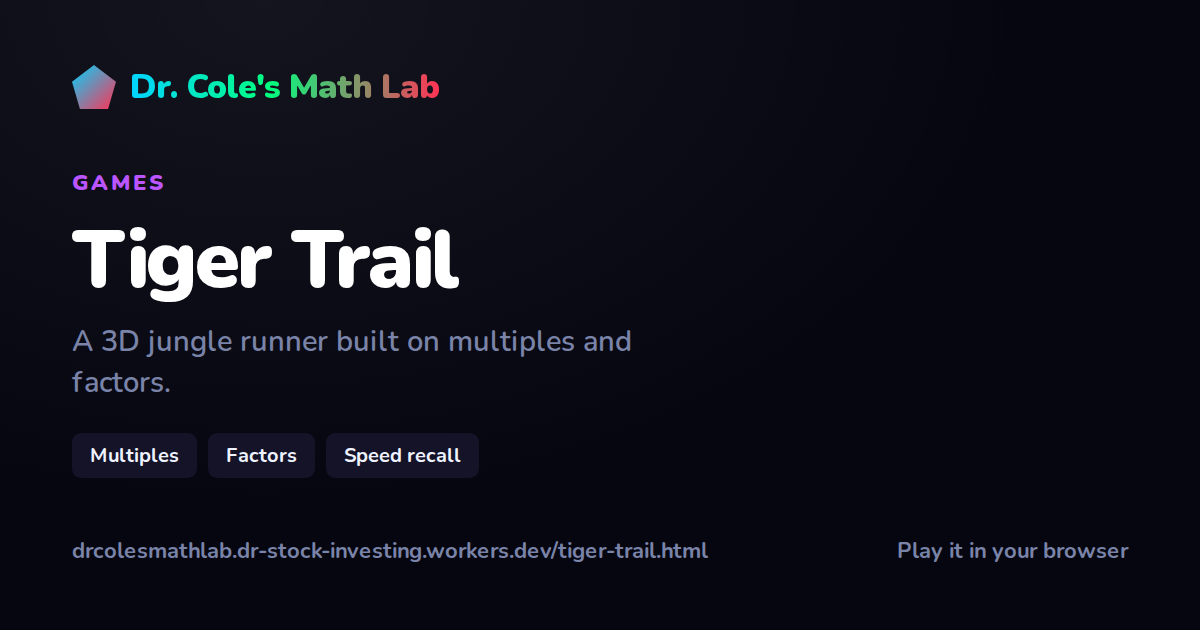
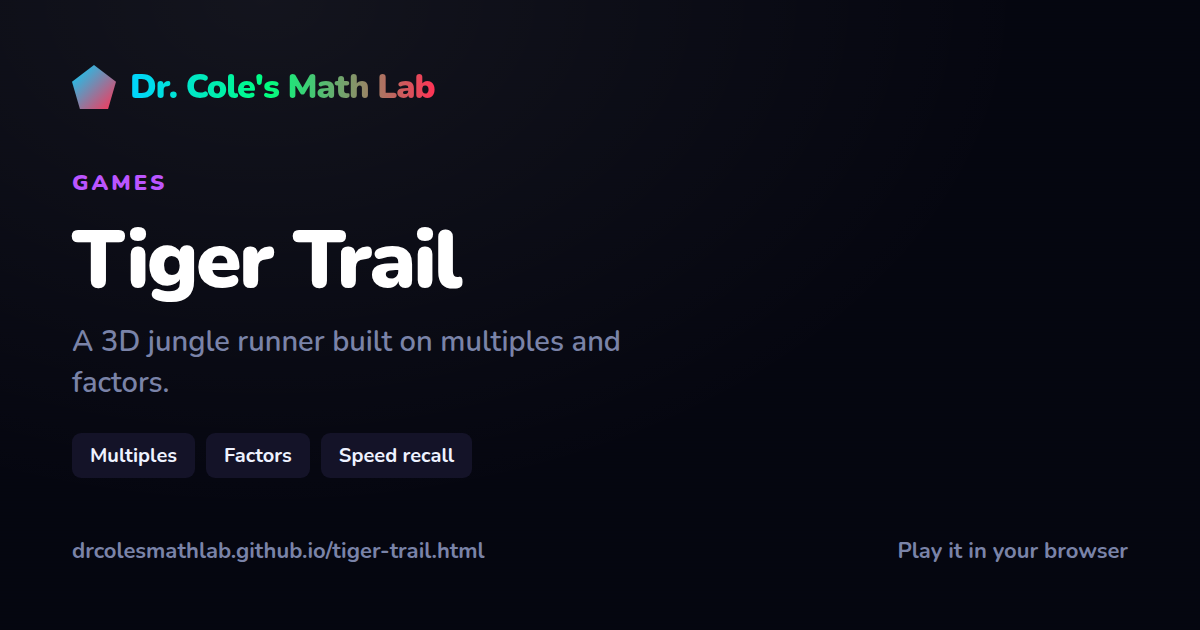
Point canonical and OG tags back at github.io so LinkedIn previews work
LinkedIn's Post Inspector cannot load any page on workers.dev: both the
new squares-cubes.html and the long-standing balancing-act.html return
"We cannot display a preview for this URL", while the same pages on
drcolesmathlab.github.io work. The likely cause is Cloudflare's bot
protection treating LinkedInBot as a bad bot, and workers.dev is
Cloudflare's domain, so there is no zone of ours to add an allow rule to.

- site.origin -> https://drcolesmathlab.github.io; every page's
  canonical, og:url, og:image and twitter:image regenerated from it.
- og-cards.html footers show the github.io address; all six cards
  re-rendered (Nunito from assets/fonts, same 1200x630 spec). Only the
  address text differs from the previous cards.
- README: github.io is canonical again and says why; records that
  preview branch builds are switched off in the Cloudflare dashboard;
  the custom-domain steps now start with a Post Inspector check.

The Worker keeps serving the site unchanged.

Verified: apply-site-chrome.js is idempotent, check-external.js reports
no external origins, check-contrast.js passes all 66 pairs, and no page
or tool still references workers.dev outside the config comment.

Claude-Session: https://claude.ai/code/session_01F2yThtmyDHjTp4sxzs9zBR

diff --git a/real-number-monsters.html b/real-number-monsters.html
@@ -6,20 +6,20 @@
 <title>Real Number Monsters — Dr. Cole's Math Lab</title>
 
 <!-- META:START -->
-<link rel="canonical" href="https://drcolesmathlab.dr-stock-investing.workers.dev/real-number-monsters.html">
+<link rel="canonical" href="https://drcolesmathlab.github.io/real-number-monsters.html">
 <meta name="description" content="Feed every falling number to the monster of its most specific set: Natural, Whole, Integer, Rational or Irrational. Playable in the browser, no sign-up.">
 <meta property="og:type" content="website">
 <meta property="og:site_name" content="Dr. Cole's Math Lab">
-<meta property="og:url" content="https://drcolesmathlab.dr-stock-investing.workers.dev/real-number-monsters.html">
+<meta property="og:url" content="https://drcolesmathlab.github.io/real-number-monsters.html">
 <meta property="og:title" content="Real Number Monsters — Dr. Cole's Math Lab">
 <meta property="og:description" content="Feed every falling number to the monster of its most specific set: Natural, Whole, Integer, Rational or Irrational. Playable in the browser, no sign-up.">
-<meta property="og:image" content="https://drcolesmathlab.dr-stock-investing.workers.dev/assets/og-real-number-monsters.png">
+<meta property="og:image" content="https://drcolesmathlab.github.io/assets/og-real-number-monsters.png">
 <meta property="og:image:width" content="1200">
 <meta property="og:image:height" content="630">
 <meta name="twitter:card" content="summary_large_image">
 <meta name="twitter:title" content="Real Number Monsters — Dr. Cole's Math Lab">
 <meta name="twitter:description" content="Feed every falling number to the monster of its most specific set: Natural, Whole, Integer, Rational or Irrational. Playable in the browser, no sign-up.">
-<meta name="twitter:image" content="https://drcolesmathlab.dr-stock-investing.workers.dev/assets/og-real-number-monsters.png">
+<meta name="twitter:image" content="https://drcolesmathlab.github.io/assets/og-real-number-monsters.png">
 <meta name="theme-color" content="#050610">
 <!-- META:END -->
 

diff --git a/tools/og-cards.html b/tools/og-cards.html
@@ -79,7 +79,7 @@
     <p class="sub">Playable in the browser. No download, no sign-up, no tracking.</p>
   </div>
   <div class="layer foot">
-    <span class="note">drcolesmathlab.dr-stock-investing.workers.dev</span>
+    <span class="note">drcolesmathlab.github.io</span>
     <span class="note">Geometry · Algebra · Number sense</span>
   </div>
 </article>
@@ -97,7 +97,7 @@
     </div>
   </div>
   <div class="layer foot">
-    <span class="note">drcolesmathlab.dr-stock-investing.workers.dev/transform-lab.html</span>
+    <span class="note">drcolesmathlab.github.io/transform-lab.html</span>
     <span class="note">Play it in your browser</span>
   </div>
 </article>
@@ -115,7 +115,7 @@
     </div>
   </div>
   <div class="layer foot">
-    <span class="note">drcolesmathlab.dr-stock-investing.workers.dev/tiger-trail.html</span>
+    <span class="note">drcolesmathlab.github.io/tiger-trail.html</span>
     <span class="note">Play it in your browser</span>
   </div>
 </article>
@@ -133,7 +133,7 @@
     </div>
   </div>
   <div class="layer foot">
-    <span class="note">drcolesmathlab.dr-stock-investing.workers.dev/balancing-act.html</span>
+    <span class="note">drcolesmathlab.github.io/balancing-act.html</span>
     <span class="note">Play it in your browser</span>
   </div>
 </article>
@@ -151,7 +151,7 @@
     </div>
   </div>
   <div class="layer foot">
-    <span class="note">drcolesmathlab.dr-stock-investing.workers.dev/real-number-monsters.html</span>
+    <span class="note">drcolesmathlab.github.io/real-number-monsters.html</span>
     <span class="note">Play it in your browser</span>
   </div>
 </article>
@@ -169,7 +169,7 @@
     </div>
   </div>
   <div class="layer foot">
-    <span class="note">drcolesmathlab.dr-stock-investing.workers.dev/squares-cubes.html</span>
+    <span class="note">drcolesmathlab.github.io/squares-cubes.html</span>
     <span class="note">Explore it in your browser</span>
   </div>
 </article>

diff --git a/index.html b/index.html
@@ -6,20 +6,20 @@
 <title>Dr. Cole's Math Lab — interactive math you can actually use</title>
 
 <!-- META:START -->
-<link rel="canonical" href="https://drcolesmathlab.dr-stock-investing.workers.dev/">
+<link rel="canonical" href="https://drcolesmathlab.github.io/">
 <meta name="description" content="5 interactive math apps you can use right in the browser — no download, no sign-up, no tracking. Built by Dr. Cole.">
 <meta property="og:type" content="website">
 <meta property="og:site_name" content="Dr. Cole's Math Lab">
-<meta property="og:url" content="https://drcolesmathlab.dr-stock-investing.workers.dev/">
+<meta property="og:url" content="https://drcolesmathlab.github.io/">
 <meta property="og:title" content="Dr. Cole's Math Lab — interactive math you can actually use">
 <meta property="og:description" content="5 interactive math apps you can use right in the browser — no download, no sign-up, no tracking. Built by Dr. Cole.">
-<meta property="og:image" content="https://drcolesmathlab.dr-stock-investing.workers.dev/assets/og-home.png">
+<meta property="og:image" content="https://drcolesmathlab.github.io/assets/og-home.png">
 <meta property="og:image:width" content="1200">
 <meta property="og:image:height" content="630">
 <meta name="twitter:card" content="summary_large_image">
 <meta name="twitter:title" content="Dr. Cole's Math Lab — interactive math you can actually use">
 <meta name="twitter:description" content="5 interactive math apps you can use right in the browser — no download, no sign-up, no tracking. Built by Dr. Cole.">
-<meta name="twitter:image" content="https://drcolesmathlab.dr-stock-investing.workers.dev/assets/og-home.png">
+<meta name="twitter:image" content="https://drcolesmathlab.github.io/assets/og-home.png">
 <meta name="theme-color" media="(prefers-color-scheme: light)" content="#F7F8FA">
 <meta name="theme-color" media="(prefers-color-scheme: dark)" content="#060810">
 <!-- META:END -->

diff --git a/squares-cubes.html b/squares-cubes.html
@@ -6,20 +6,20 @@
 <title>Squares &amp; Cubes Explorer — Dr. Cole's Math Lab</title>
 
 <!-- META:START -->
-<link rel="canonical" href="https://drcolesmathlab.dr-stock-investing.workers.dev/squares-cubes.html">
+<link rel="canonical" href="https://drcolesmathlab.github.io/squares-cubes.html">
 <meta name="description" content="Grow a square or a cube one unit at a time and watch the notation and the count follow. Runs in the browser, no sign-up.">
 <meta property="og:type" content="website">
 <meta property="og:site_name" content="Dr. Cole's Math Lab">
-<meta property="og:url" content="https://drcolesmathlab.dr-stock-investing.workers.dev/squares-cubes.html">
+<meta property="og:url" content="https://drcolesmathlab.github.io/squares-cubes.html">
 <meta property="og:title" content="Squares &amp; Cubes Explorer — Dr. Cole's Math Lab">
 <meta property="og:description" content="Grow a square or a cube one unit at a time and watch the notation and the count follow. Runs in the browser, no sign-up.">
-<meta property="og:image" content="https://drcolesmathlab.dr-stock-investing.workers.dev/assets/og-squares-cubes.png">
+<meta property="og:image" content="https://drcolesmathlab.github.io/assets/og-squares-cubes.png">
 <meta property="og:image:width" content="1200">
 <meta property="og:image:height" content="630">
 <meta name="twitter:card" content="summary_large_image">
 <meta name="twitter:title" content="Squares &amp; Cubes Explorer — Dr. Cole's Math Lab">
 <meta name="twitter:description" content="Grow a square or a cube one unit at a time and watch the notation and the count follow. Runs in the browser, no sign-up.">
-<meta name="twitter:image" content="https://drcolesmathlab.dr-stock-investing.workers.dev/assets/og-squares-cubes.png">
+<meta name="twitter:image" content="https://drcolesmathlab.github.io/assets/og-squares-cubes.png">
 <meta name="theme-color" content="#050610">
 <!-- META:END -->
 

diff --git a/balancing-act.html b/balancing-act.html
@@ -6,20 +6,20 @@
 <title>Balancing Act — Dr. Cole's Math Lab</title>
 
 <!-- META:START -->
-<link rel="canonical" href="https://drcolesmathlab.dr-stock-investing.workers.dev/balancing-act.html">
+<link rel="canonical" href="https://drcolesmathlab.github.io/balancing-act.html">
 <meta name="description" content="Solve linear equations with a balance beam that reacts when you break the property of equality. Playable in the browser, no sign-up.">
 <meta property="og:type" content="website">
 <meta property="og:site_name" content="Dr. Cole's Math Lab">
-<meta property="og:url" content="https://drcolesmathlab.dr-stock-investing.workers.dev/balancing-act.html">
+<meta property="og:url" content="https://drcolesmathlab.github.io/balancing-act.html">
 <meta property="og:title" content="Balancing Act — Dr. Cole's Math Lab">
 <meta property="og:description" content="Solve linear equations with a balance beam that reacts when you break the property of equality. Playable in the browser, no sign-up.">
-<meta property="og:image" content="https://drcolesmathlab.dr-stock-investing.workers.dev/assets/og-balancing-act.png">
+<meta property="og:image" content="https://drcolesmathlab.github.io/assets/og-balancing-act.png">
 <meta property="og:image:width" content="1200">
 <meta property="og:image:height" content="630">
 <meta name="twitter:card" content="summary_large_image">
 <meta name="twitter:title" content="Balancing Act — Dr. Cole's Math Lab">
 <meta name="twitter:description" content="Solve linear equations with a balance beam that reacts when you break the property of equality. Playable in the browser, no sign-up.">
-<meta name="twitter:image" content="https://drcolesmathlab.dr-stock-investing.workers.dev/assets/og-balancing-act.png">
+<meta name="twitter:image" content="https://drcolesmathlab.github.io/assets/og-balancing-act.png">
 <meta name="theme-color" content="#050610">
 <!-- META:END -->
 

diff --git a/transform-lab.html b/transform-lab.html
@@ -6,20 +6,20 @@
 <title>Transform Lab — Dr. Cole's Math Lab</title>
 
 <!-- META:START -->
-<link rel="canonical" href="https://drcolesmathlab.dr-stock-investing.workers.dev/transform-lab.html">
+<link rel="canonical" href="https://drcolesmathlab.github.io/transform-lab.html">
 <meta name="description" content="Drag shapes across a coordinate grid to explore translation, reflection, rotation and dilation. Playable in the browser, no sign-up.">
 <meta property="og:type" content="website">
 <meta property="og:site_name" content="Dr. Cole's Math Lab">
-<meta property="og:url" content="https://drcolesmathlab.dr-stock-investing.workers.dev/transform-lab.html">
+<meta property="og:url" content="https://drcolesmathlab.github.io/transform-lab.html">
 <meta property="og:title" content="Transform Lab — Dr. Cole's Math Lab">
 <meta property="og:description" content="Drag shapes across a coordinate grid to explore translation, reflection, rotation and dilation. Playable in the browser, no sign-up.">
-<meta property="og:image" content="https://drcolesmathlab.dr-stock-investing.workers.dev/assets/og-transform-lab.png">
+<meta property="og:image" content="https://drcolesmathlab.github.io/assets/og-transform-lab.png">
 <meta property="og:image:width" content="1200">
 <meta property="og:image:height" content="630">
 <meta name="twitter:card" content="summary_large_image">
 <meta name="twitter:title" content="Transform Lab — Dr. Cole's Math Lab">
 <meta name="twitter:description" content="Drag shapes across a coordinate grid to explore translation, reflection, rotation and dilation. Playable in the browser, no sign-up.">
-<meta name="twitter:image" content="https://drcolesmathlab.dr-stock-investing.workers.dev/assets/og-transform-lab.png">
+<meta name="twitter:image" content="https://drcolesmathlab.github.io/assets/og-transform-lab.png">
 <meta name="theme-color" content="#050610">
 <!-- META:END -->
 

diff --git a/tiger-trail.html b/tiger-trail.html
@@ -6,20 +6,20 @@
 <title>Tiger Trail: Jungle Math Runner — Dr. Cole's Math Lab</title>
 
 <!-- META:START -->
-<link rel="canonical" href="https://drcolesmathlab.dr-stock-investing.workers.dev/tiger-trail.html">
+<link rel="canonical" href="https://drcolesmathlab.github.io/tiger-trail.html">
 <meta name="description" content="A 3D endless runner that drills multiples and factors. Playable in the browser, no sign-up.">
 <meta property="og:type" content="website">
 <meta property="og:site_name" content="Dr. Cole's Math Lab">
-<meta property="og:url" content="https://drcolesmathlab.dr-stock-investing.workers.dev/tiger-trail.html">
+<meta property="og:url" content="https://drcolesmathlab.github.io/tiger-trail.html">
 <meta property="og:title" content="Tiger Trail: Jungle Math Runner — Dr. Cole's Math Lab">
 <meta property="og:description" content="A 3D endless runner that drills multiples and factors. Playable in the browser, no sign-up.">
-<meta property="og:image" content="https://drcolesmathlab.dr-stock-investing.workers.dev/assets/og-tiger-trail.png">
+<meta property="og:image" content="https://drcolesmathlab.github.io/assets/og-tiger-trail.png">
 <meta property="og:image:width" content="1200">
 <meta property="og:image:height" content="630">
 <meta name="twitter:card" content="summary_large_image">
 <meta name="twitter:title" content="Tiger Trail: Jungle Math Runner — Dr. Cole's Math Lab">
 <meta name="twitter:description" content="A 3D endless runner that drills multiples and factors. Playable in the browser, no sign-up.">
-<meta name="twitter:image" content="https://drcolesmathlab.dr-stock-investing.workers.dev/assets/og-tiger-trail.png">
+<meta name="twitter:image" content="https://drcolesmathlab.github.io/assets/og-tiger-trail.png">
 <meta name="theme-color" content="#050610">
 <!-- META:END -->
 

diff --git a/tools/site.config.js b/tools/site.config.js
@@ -18,11 +18,14 @@
 
 module.exports = {
   site: {
-    // Served by a Cloudflare Worker (the canonical host; see wrangler.jsonc) and also by
-    // GitHub Pages at drcolesmathlab.github.io, so links shared before the move keep
-    // working. Canonical, og:url and og:image all point here. If a custom domain is
-    // attached to the Worker later, change this and re-run the generator.
-    origin: 'https://drcolesmathlab.dr-stock-investing.workers.dev',
+    // Served by GitHub Pages here and by a Cloudflare Worker at
+    // drcolesmathlab.dr-stock-investing.workers.dev (see wrangler.jsonc). Canonical,
+    // og:url and og:image all point here, not at the Worker: LinkedIn's Post Inspector
+    // cannot load any page on workers.dev ("We cannot display a preview for this URL"),
+    // and workers.dev is Cloudflare's domain, so there is no zone of ours in which to
+    // let LinkedInBot through. If a custom domain is attached to the Worker later,
+    // check it in Post Inspector first, then change this and re-run the generator.
+    origin: 'https://drcolesmathlab.github.io',
     name: "Dr. Cole's Math Lab",
     wordmarkPre: "Dr. Cole's",
     wordmark: 'Math Lab',

diff --git a/README.md b/README.md
@@ -3,9 +3,9 @@
 A portfolio site for a set of interactive math apps. The point is that every app is
 **actually usable in the page** — not a screenshot, not a video, not an app-store link.
 
-Live at `https://drcolesmathlab.dr-stock-investing.workers.dev` (Cloudflare Worker, canonical) and
-`https://drcolesmathlab.github.io` (GitHub Pages, kept so older links still work). See
-*Deploying* below.
+Live at `https://drcolesmathlab.github.io` (GitHub Pages, canonical) and
+`https://drcolesmathlab.dr-stock-investing.workers.dev` (Cloudflare Worker). See
+*Deploying* below for why the canonical host is GitHub Pages.
 
 ---
 
@@ -233,11 +233,15 @@ mode (white on `#60A5FA` was 2.54:1, now `#060810`). The mockup's decorative gre
 
 The same `main` branch is served two ways, with no build step:
 
-- **Cloudflare Worker: `https://drcolesmathlab.dr-stock-investing.workers.dev`
-  (canonical).** `site.origin` in `tools/site.config.js` points here, so canonical,
-  `og:url` and `og:image` all do too. The Worker is static assets only — no script.
-- **GitHub Pages: `https://drcolesmathlab.github.io`.** Kept live so links shared before
-  the move keep working.
+- **GitHub Pages: `https://drcolesmathlab.github.io` (canonical).** `site.origin` in
+  `tools/site.config.js` points here, so canonical, `og:url` and `og:image` all do too.
+- **Cloudflare Worker: `https://drcolesmathlab.dr-stock-investing.workers.dev`.** Static
+  assets only — no script. Every page works here, but **share the github.io links**:
+  LinkedIn's Post Inspector cannot load any page on `workers.dev` ("We cannot display a
+  preview for this URL"), so a shared workers.dev link gets no card. The likely cause is
+  Cloudflare's bot protection treating LinkedInBot as a bad bot; `workers.dev` is
+  Cloudflare's domain, not ours, so there is nowhere to add a rule letting it through.
+  A custom domain on the Worker would give us that zone (see below).
 
 ### How the Cloudflare Worker is set up
 
@@ -271,7 +275,13 @@ To check a change the way Cloudflare will serve it, run `npx wrangler dev` from 
 root and open `http://localhost:8787`. `/.git/config`, `/tools/…` and `/README.md` must
 all be 404.
 
-**Custom domain later:** add it in the Worker's **Settings → Domains & Routes**, then set
+Preview (non-`main`) branch builds are **switched off** in the dashboard (**Settings →
+Build → Previews Base → Builds for Preview branches**). With preview URLs off they only
+ever failed, which put a red *Workers Builds* check on every PR.
+
+**Custom domain later:** add it in the Worker's **Settings → Domains & Routes**, confirm a
+page on it passes LinkedIn's Post Inspector (allow LinkedInBot in the zone's security
+settings if it doesn't), then set
 `site.origin` to it, run `node tools/apply-site-chrome.js`, update the URLs in
 `tools/og-cards.html`, re-render the cards and commit.
 
